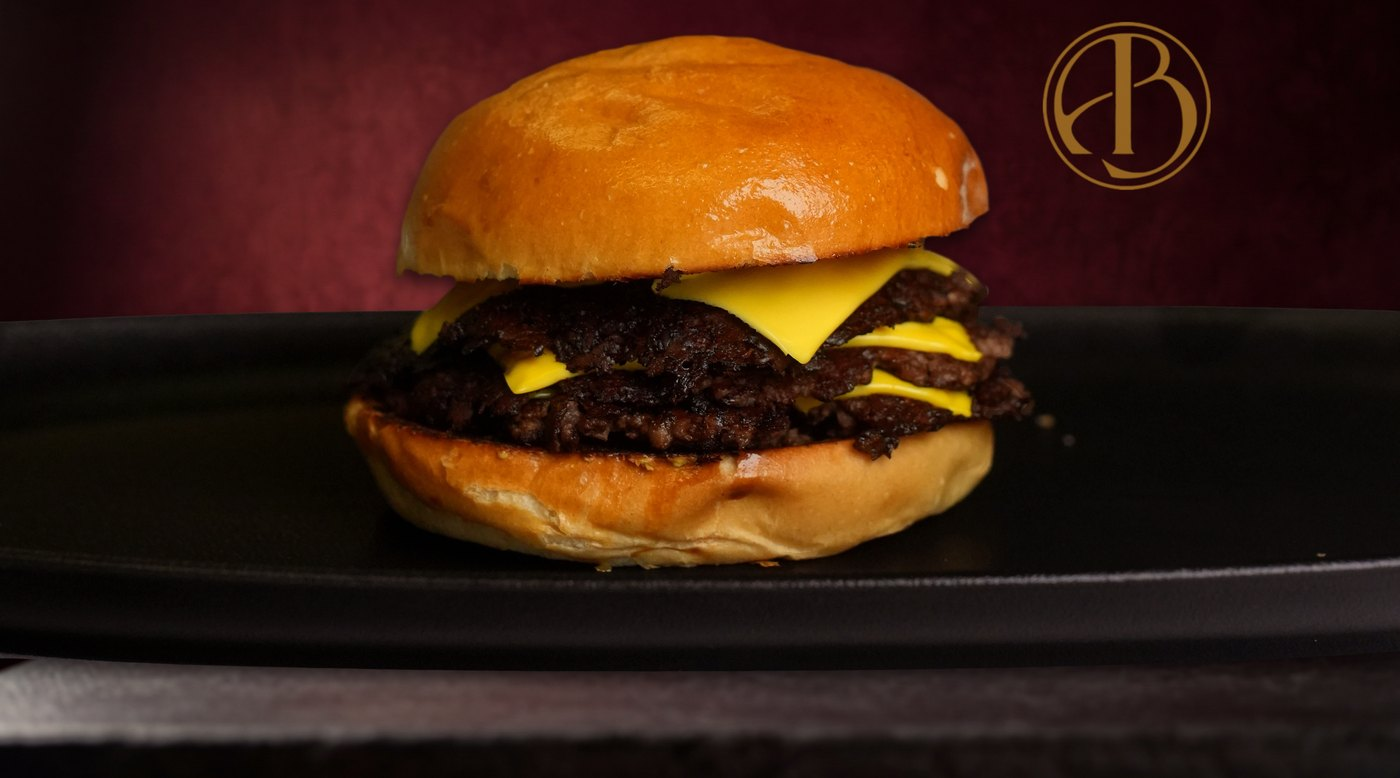
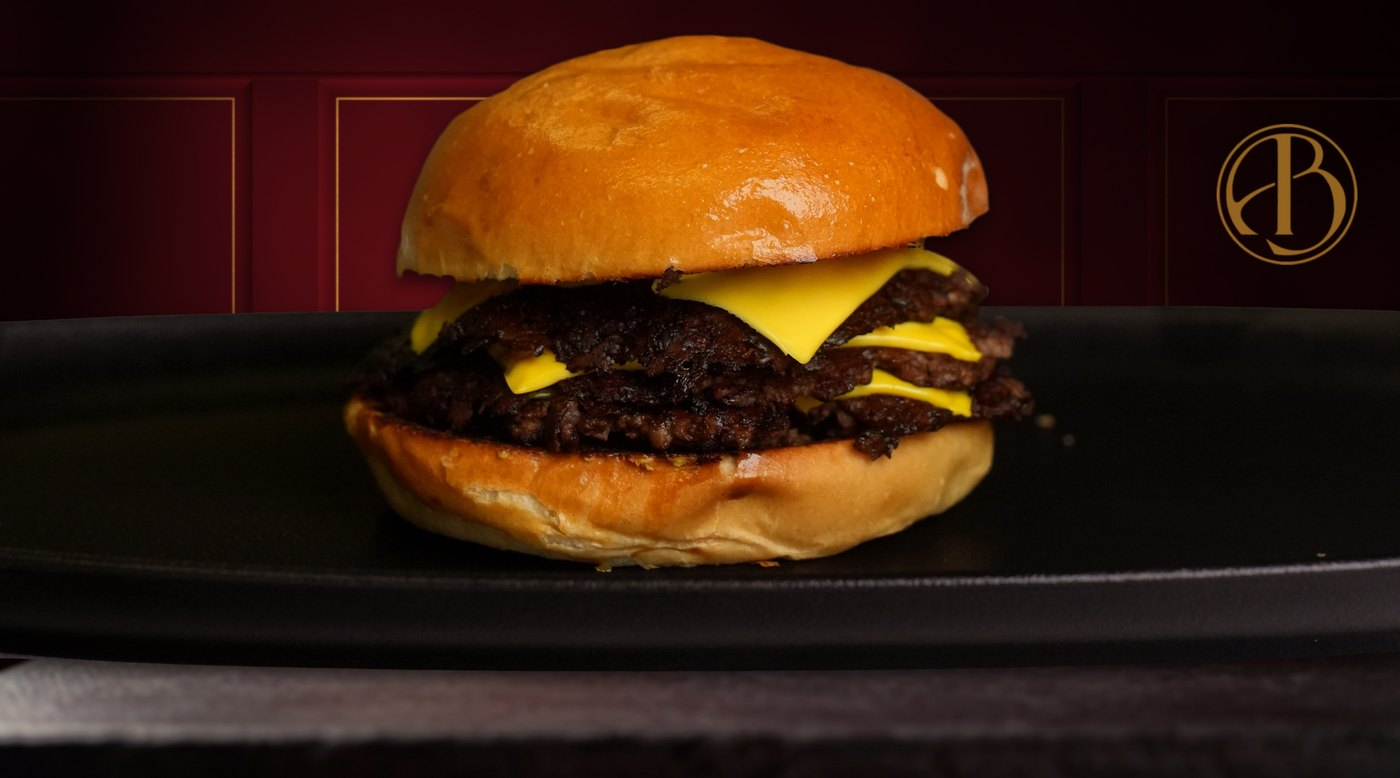
Démo APB Glovo v6 : fond boiseries lie-de-vin et liseré doré

diff --git a/public/demos/atelier-paris-burger/glovo/index.html b/public/demos/atelier-paris-burger/glovo/index.html
@@ -47,27 +47,27 @@ textarea{width:100%;background:var(--panel);color:var(--fg);border:1px solid var
 <body>
 <div class="wrap">
   <header>
-    <h1>Atelier Paris Burger<br>Photos Glovo · version 5</h1>
+    <h1>Atelier Paris Burger<br>Photos Glovo · version 6</h1>
     <div class="by">Proposé par <b>Nouvelle Ardoise</b></div>
   </header>
-  <p class="lead">Cette fois, ce sont <b>tes vraies photos</b> : le burger, le cheddar et la sauce n'ont pas été retouchés par l'IA, seule la lumière a été légèrement corrigée. Le décor a été refait autour : <b>mur rouge velours comme ton site</b>, table en pierre sombre, et le logo doré.</p>
+  <p class="lead">Cette fois, ce sont <b>tes vraies photos</b> : le burger, le cheddar et la sauce n'ont pas été retouchés par l'IA, seule la lumière a été légèrement corrigée. Le décor a été refait autour : <b>boiseries lie-de-vin foncé avec un liseré doré</b>, table en pierre sombre, et le logo doré.</p>
 
   <div class="item">
-    <img src="img/v2-burger-coupe-sauce.jpg?v=5" alt="Burger coupé dans la sauce Café de Paris, fond lie-de-vin foncé">
+    <img src="img/v2-burger-coupe-sauce.jpg?v=6" alt="Burger coupé dans la sauce Café de Paris, boiseries lie-de-vin foncé">
     <div class="side">
       <h2>Coupé, dans la sauce</h2>
       <p>Format Glovo 2484 × 1380.</p>
-      <div class="tile"><div><b>Burger classique</b><small>2 steaks, cheddar, sauce Café de Paris</small></div><img src="img/v2-burger-coupe-sauce-sq.jpg?v=5" alt=""></div>
+      <div class="tile"><div><b>Burger classique</b><small>2 steaks, cheddar, sauce Café de Paris</small></div><img src="img/v2-burger-coupe-sauce-sq.jpg?v=6" alt=""></div>
       <span class="cap">Vignette dans la liste de l'appli</span>
     </div>
   </div>
 
   <div class="item">
-    <img src="img/v2-smash-entier.jpg?v=5" alt="Smash triple entier, fond lie-de-vin foncé">
+    <img src="img/v2-smash-entier.jpg?v=6" alt="Smash triple entier, boiseries lie-de-vin foncé">
     <div class="side">
       <h2>Smash entier</h2>
       <p>Format Glovo 2484 × 1380.</p>
-      <div class="tile"><div><b>Smash triple</b><small>3 steaks smashés, cheddar</small></div><img src="img/v2-smash-entier-sq.jpg?v=5" alt=""></div>
+      <div class="tile"><div><b>Smash triple</b><small>3 steaks smashés, cheddar</small></div><img src="img/v2-smash-entier-sq.jpg?v=6" alt=""></div>
       <span class="cap">Vignette dans la liste de l'appli</span>
     </div>
   </div>
@@ -91,8 +91,8 @@ textarea{width:100%;background:var(--panel);color:var(--fg);border:1px solid var
 <script>
 let avis="Je valide ce style";
 const msg=document.getElementById("msg");
-function text(){const m=msg.value.trim();return `Atelier Paris Burger – photos Glovo version 5 :\n• ${avis}`+(m?`\n• ${m}`:"");}
-function upd(){const t=text();document.getElementById("wa").href="https://wa.me/?text="+encodeURIComponent(t);document.getElementById("mail").href="mailto:malik@pastamo.ch?subject="+encodeURIComponent("Atelier Paris Burger – photos Glovo v5")+"&body="+encodeURIComponent(t);}
+function text(){const m=msg.value.trim();return `Atelier Paris Burger – photos Glovo version 6 :\n• ${avis}`+(m?`\n• ${m}`:"");}
+function upd(){const t=text();document.getElementById("wa").href="https://wa.me/?text="+encodeURIComponent(t);document.getElementById("mail").href="mailto:malik@pastamo.ch?subject="+encodeURIComponent("Atelier Paris Burger – photos Glovo v6")+"&body="+encodeURIComponent(t);}
 document.querySelectorAll(".choice").forEach(b=>b.addEventListener("click",()=>{avis=b.dataset.v;document.querySelectorAll(".choice").forEach(x=>x.setAttribute("aria-checked",x===b?"true":"false"));upd();}));
 msg.addEventListener("input",upd);
 document.getElementById("copy").addEventListener("click",async()=>{const o=document.getElementById("copied");try{await navigator.clipboard.writeText(text());o.textContent="Copié : colle-le dans ton message à Malik.";}catch(e){o.textContent=text();}});
